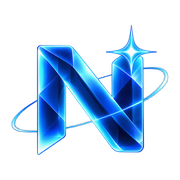
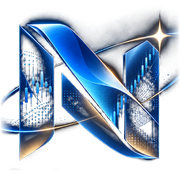
Use the group's new rendered mark
Replace the flat vector N with the mark the owner supplied: a glass N
carrying candlesticks, with an orbit and a spark.

The file came as a dark picture with a broken alpha channel that showed as
grey smoke, so the supplied alpha is ignored: each pixel's opacity is how
far it rises above the navy backdrop, which lifts the mark and its glow
off cleanly. Two cuts are made from it - the whole mark with its orbit for
large placements, and a square on the N for the navbar and icons, where
the orbit would only make the letter smaller. Both fade at the edge
instead of being sliced, and the wordmark under the mark is left out.

The vector logo and its SVG favicon are removed.

diff --git a/about.html b/about.html
@@ -16,7 +16,6 @@
 <meta property="og:image" content="https://mohammad1982salemi.github.io/Nova-group/assets/img/favicon-192.png">
 <meta name="twitter:card" content="summary">
 
-<link rel="icon" type="image/svg+xml" href="assets/img/favicon.svg">
 <link rel="icon" type="image/png" sizes="64x64" href="assets/img/favicon-64.png">
 <link rel="icon" type="image/png" sizes="192x192" href="assets/img/favicon-192.png">
 <link rel="apple-touch-icon" href="assets/img/favicon-192.png">
@@ -26,7 +25,7 @@
 <link rel="preconnect" href="https://fonts.googleapis.com">
 <link rel="preconnect" href="https://fonts.gstatic.com" crossorigin>
 <link rel="stylesheet" href="https://fonts.googleapis.com/css2?family=Space+Grotesk:wght@400;500;600;700&family=Inter:wght@300;400;500;600&display=swap">
-<link rel="stylesheet" href="assets/css/style.css?v=15">
+<link rel="stylesheet" href="assets/css/style.css?v=16">
 
 <!-- Runs before first paint so the page never flashes in the wrong language or direction. -->
 <script>
@@ -46,7 +45,7 @@
 <header class="nav" id="nav">
   <div class="wrap nav-inner">
     <a class="logo" href="index.html" aria-label="Nova Group">
-      <img class="logo-mark" src="assets/img/nova-logo.svg" alt="" width="64" height="64">
+      <img class="logo-mark" src="assets/img/nova-mark-180.png" alt="" width="180" height="180">
       <span class="logo-text t-fa"><b>نوا</b> گروپ</span><span class="logo-text t-en"><b>NOVA</b> GROUP</span>
     </a>
 
@@ -80,7 +79,7 @@
         <span class="t-en">A three-person group that has been studying financial markets and building trading algorithms since 2020.</span>
       </p>
     </div>
-    <img class="page-mark reveal" src="assets/img/nova-logo.svg" alt="" width="64" height="64">
+    <img class="page-mark reveal" src="assets/img/nova-mark.png" alt="" width="560" height="379">
   </div>
 </section>
 
@@ -251,7 +250,7 @@
     <div class="footer-top">
       <div class="footer-brand">
         <a class="logo" href="index.html" aria-label="Nova Group">
-          <img class="logo-mark" src="assets/img/nova-logo.svg" alt="" width="64" height="64" loading="lazy">
+          <img class="logo-mark" src="assets/img/nova-mark-180.png" alt="" width="180" height="180" loading="lazy">
           <span class="logo-text t-fa"><b>نوا</b> گروپ</span><span class="logo-text t-en"><b>NOVA</b> GROUP</span>
         </a>
         <p>
@@ -288,6 +287,6 @@
 
 <button class="to-top" id="toTop" type="button" aria-label="Back to top">↑</button>
 
-<script src="assets/js/main.js?v=15"></script>
+<script src="assets/js/main.js?v=16"></script>
 </body>
 </html>

diff --git a/projects/tsetmc.html b/projects/tsetmc.html
@@ -16,7 +16,6 @@
 <meta property="og:image" content="https://mohammad1982salemi.github.io/Nova-group/assets/img/favicon-192.png">
 <meta name="twitter:card" content="summary">
 
-<link rel="icon" type="image/svg+xml" href="../assets/img/favicon.svg">
 <link rel="icon" type="image/png" sizes="64x64" href="../assets/img/favicon-64.png">
 <link rel="icon" type="image/png" sizes="192x192" href="../assets/img/favicon-192.png">
 <link rel="apple-touch-icon" href="../assets/img/favicon-192.png">
@@ -26,7 +25,7 @@
 <link rel="preconnect" href="https://fonts.googleapis.com">
 <link rel="preconnect" href="https://fonts.gstatic.com" crossorigin>
 <link rel="stylesheet" href="https://fonts.googleapis.com/css2?family=Space+Grotesk:wght@400;500;600;700&family=Inter:wght@300;400;500;600&display=swap">
-<link rel="stylesheet" href="../assets/css/style.css?v=15">
+<link rel="stylesheet" href="../assets/css/style.css?v=16">
 
 <!-- Runs before first paint so the page never flashes in the wrong language or direction. -->
 <script>
@@ -46,7 +45,7 @@
 <header class="nav" id="nav">
   <div class="wrap nav-inner">
     <a class="logo" href="../index.html" aria-label="Nova Group">
-      <img class="logo-mark" src="../assets/img/nova-logo.svg" alt="" width="64" height="64">
+      <img class="logo-mark" src="../assets/img/nova-mark-180.png" alt="" width="180" height="180">
       <span class="logo-text t-fa"><b>نوا</b> گروپ</span><span class="logo-text t-en"><b>NOVA</b> GROUP</span>
     </a>
 
@@ -263,7 +262,7 @@
     <div class="footer-top">
       <div class="footer-brand">
         <a class="logo" href="../index.html" aria-label="Nova Group">
-          <img class="logo-mark" src="../assets/img/nova-logo.svg" alt="" width="64" height="64" loading="lazy">
+          <img class="logo-mark" src="../assets/img/nova-mark-180.png" alt="" width="180" height="180" loading="lazy">
           <span class="logo-text t-fa"><b>نوا</b> گروپ</span><span class="logo-text t-en"><b>NOVA</b> GROUP</span>
         </a>
         <p>
@@ -300,6 +299,6 @@
 
 <button class="to-top" id="toTop" type="button" aria-label="Back to top">↑</button>
 
-<script src="../assets/js/main.js?v=15"></script>
+<script src="../assets/js/main.js?v=16"></script>
 </body>
 </html>

diff --git a/contact.html b/contact.html
@@ -16,7 +16,6 @@
 <meta property="og:image" content="https://mohammad1982salemi.github.io/Nova-group/assets/img/favicon-192.png">
 <meta name="twitter:card" content="summary">
 
-<link rel="icon" type="image/svg+xml" href="assets/img/favicon.svg">
 <link rel="icon" type="image/png" sizes="64x64" href="assets/img/favicon-64.png">
 <link rel="icon" type="image/png" sizes="192x192" href="assets/img/favicon-192.png">
 <link rel="apple-touch-icon" href="assets/img/favicon-192.png">
@@ -26,7 +25,7 @@
 <link rel="preconnect" href="https://fonts.googleapis.com">
 <link rel="preconnect" href="https://fonts.gstatic.com" crossorigin>
 <link rel="stylesheet" href="https://fonts.googleapis.com/css2?family=Space+Grotesk:wght@400;500;600;700&family=Inter:wght@300;400;500;600&display=swap">
-<link rel="stylesheet" href="assets/css/style.css?v=15">
+<link rel="stylesheet" href="assets/css/style.css?v=16">
 
 <!-- Runs before first paint so the page never flashes in the wrong language or direction. -->
 <script>
@@ -46,7 +45,7 @@
 <header class="nav" id="nav">
   <div class="wrap nav-inner">
     <a class="logo" href="index.html" aria-label="Nova Group">
-      <img class="logo-mark" src="assets/img/nova-logo.svg" alt="" width="64" height="64">
+      <img class="logo-mark" src="assets/img/nova-mark-180.png" alt="" width="180" height="180">
       <span class="logo-text t-fa"><b>نوا</b> گروپ</span><span class="logo-text t-en"><b>NOVA</b> GROUP</span>
     </a>
 
@@ -110,7 +109,7 @@
     <div class="footer-top">
       <div class="footer-brand">
         <a class="logo" href="index.html" aria-label="Nova Group">
-          <img class="logo-mark" src="assets/img/nova-logo.svg" alt="" width="64" height="64" loading="lazy">
+          <img class="logo-mark" src="assets/img/nova-mark-180.png" alt="" width="180" height="180" loading="lazy">
           <span class="logo-text t-fa"><b>نوا</b> گروپ</span><span class="logo-text t-en"><b>NOVA</b> GROUP</span>
         </a>
         <p>
@@ -147,6 +146,6 @@
 
 <button class="to-top" id="toTop" type="button" aria-label="Back to top">↑</button>
 
-<script src="assets/js/main.js?v=15"></script>
+<script src="assets/js/main.js?v=16"></script>
 </body>
 </html>

diff --git a/index.html b/index.html
@@ -16,7 +16,6 @@
 <meta property="og:image" content="https://mohammad1982salemi.github.io/Nova-group/assets/img/favicon-192.png">
 <meta name="twitter:card" content="summary">
 
-<link rel="icon" type="image/svg+xml" href="assets/img/favicon.svg">
 <link rel="icon" type="image/png" sizes="64x64" href="assets/img/favicon-64.png">
 <link rel="icon" type="image/png" sizes="192x192" href="assets/img/favicon-192.png">
 <link rel="apple-touch-icon" href="assets/img/favicon-192.png">
@@ -26,7 +25,7 @@
 <link rel="preconnect" href="https://fonts.googleapis.com">
 <link rel="preconnect" href="https://fonts.gstatic.com" crossorigin>
 <link rel="stylesheet" href="https://fonts.googleapis.com/css2?family=Space+Grotesk:wght@400;500;600;700&family=Inter:wght@300;400;500;600&display=swap">
-<link rel="stylesheet" href="assets/css/style.css?v=15">
+<link rel="stylesheet" href="assets/css/style.css?v=16">
 
 <!-- Runs before first paint so the page never flashes in the wrong language or direction. -->
 <script>
@@ -46,7 +45,7 @@
 <header class="nav" id="nav">
   <div class="wrap nav-inner">
     <a class="logo" href="index.html" aria-label="Nova Group">
-      <img class="logo-mark" src="assets/img/nova-logo.svg" alt="" width="64" height="64">
+      <img class="logo-mark" src="assets/img/nova-mark-180.png" alt="" width="180" height="180">
       <span class="logo-text t-fa"><b>نوا</b> گروپ</span><span class="logo-text t-en"><b>NOVA</b> GROUP</span>
     </a>
 
@@ -340,7 +339,7 @@
     <div class="footer-top">
       <div class="footer-brand">
         <a class="logo" href="index.html" aria-label="Nova Group">
-          <img class="logo-mark" src="assets/img/nova-logo.svg" alt="" width="64" height="64" loading="lazy">
+          <img class="logo-mark" src="assets/img/nova-mark-180.png" alt="" width="180" height="180" loading="lazy">
           <span class="logo-text t-fa"><b>نوا</b> گروپ</span><span class="logo-text t-en"><b>NOVA</b> GROUP</span>
         </a>
         <p>
@@ -377,6 +376,6 @@
 
 <button class="to-top" id="toTop" type="button" aria-label="Back to top">↑</button>
 
-<script src="assets/js/main.js?v=15"></script>
+<script src="assets/js/main.js?v=16"></script>
 </body>
 </html>

diff --git a/projects.html b/projects.html
@@ -16,7 +16,6 @@
 <meta property="og:image" content="https://mohammad1982salemi.github.io/Nova-group/assets/img/favicon-192.png">
 <meta name="twitter:card" content="summary">
 
-<link rel="icon" type="image/svg+xml" href="assets/img/favicon.svg">
 <link rel="icon" type="image/png" sizes="64x64" href="assets/img/favicon-64.png">
 <link rel="icon" type="image/png" sizes="192x192" href="assets/img/favicon-192.png">
 <link rel="apple-touch-icon" href="assets/img/favicon-192.png">
@@ -26,7 +25,7 @@
 <link rel="preconnect" href="https://fonts.googleapis.com">
 <link rel="preconnect" href="https://fonts.gstatic.com" crossorigin>
 <link rel="stylesheet" href="https://fonts.googleapis.com/css2?family=Space+Grotesk:wght@400;500;600;700&family=Inter:wght@300;400;500;600&display=swap">
-<link rel="stylesheet" href="assets/css/style.css?v=15">
+<link rel="stylesheet" href="assets/css/style.css?v=16">
 
 <!-- Runs before first paint so the page never flashes in the wrong language or direction. -->
 <script>
@@ -46,7 +45,7 @@
 <header class="nav" id="nav">
   <div class="wrap nav-inner">
     <a class="logo" href="index.html" aria-label="Nova Group">
-      <img class="logo-mark" src="assets/img/nova-logo.svg" alt="" width="64" height="64">
+      <img class="logo-mark" src="assets/img/nova-mark-180.png" alt="" width="180" height="180">
       <span class="logo-text t-fa"><b>نوا</b> گروپ</span><span class="logo-text t-en"><b>NOVA</b> GROUP</span>
     </a>
 
@@ -126,7 +125,7 @@
     <div class="footer-top">
       <div class="footer-brand">
         <a class="logo" href="index.html" aria-label="Nova Group">
-          <img class="logo-mark" src="assets/img/nova-logo.svg" alt="" width="64" height="64" loading="lazy">
+          <img class="logo-mark" src="assets/img/nova-mark-180.png" alt="" width="180" height="180" loading="lazy">
           <span class="logo-text t-fa"><b>نوا</b> گروپ</span><span class="logo-text t-en"><b>NOVA</b> GROUP</span>
         </a>
         <p>
@@ -163,6 +162,6 @@
 
 <button class="to-top" id="toTop" type="button" aria-label="Back to top">↑</button>
 
-<script src="assets/js/main.js?v=15"></script>
+<script src="assets/js/main.js?v=16"></script>
 </body>
 </html>

diff --git a/assets/css/style.css b/assets/css/style.css
@@ -161,7 +161,8 @@ html[data-lang="fa"] .tags li { font-family: var(--font-fa); }
 .nav-inner { display: flex; align-items: center; gap: 28px; }
 
 .logo { display: inline-flex; align-items: center; gap: 12px; }
-.logo-mark { width: 40px; height: 40px; filter: drop-shadow(0 0 12px rgba(59,130,246,.55)); }
+/* the artwork carries its own glow - no drop-shadow on top of it */
+.logo-mark { width: 48px; height: 48px; }
 /* two weights: the name in white, "group" stepped back */
 .logo-text { font-weight: 400; color: #9fb1c9; }
 .logo-text b { font-weight: 700; color: #fff; }
@@ -556,7 +557,7 @@ html[dir="rtl"] .pipe > span + span::before { content: '←'; }
 .page-hero h1 { font-size: clamp(2.1rem, 4.8vw, 3.4rem); margin-block-end: 20px; }
 .page-lead { color: var(--muted); font-size: 18.2px; max-width: 66ch; }
 .page-hero-grid { display: flex; align-items: center; justify-content: space-between; gap: 48px; }
-.page-mark { flex: none; width: 190px; height: 190px; }
+.page-mark { flex: none; width: 300px; height: auto; }
 .page-hero .facts { margin-block-start: 52px; border-block-end: 0; }
 .page-hero:has(.facts) { padding-block-end: 0; }
 
@@ -698,7 +699,7 @@ html.js .reveal.is-in { opacity: 1; transform: none; }
   .burger { display: flex; }
   .nav-inner { gap: 14px; }
   .nav-actions { margin-inline-start: auto; }
-  .logo-mark { width: 36px; height: 36px; }
+  .logo-mark { width: 42px; height: 42px; }
   .nav-links {
     position: fixed; inset-block-start: var(--nav-h); inset-inline: 0;
     flex-direction: column; gap: 2px; margin: 0; padding: 12px 20px 20px;
@@ -716,7 +717,7 @@ html.js .reveal.is-in { opacity: 1; transform: none; }
   .section { padding-block: 66px; }
   .page-hero { padding-block: calc(var(--nav-h) + 48px) 48px; }
   .page-lead { font-size: 16.6px; }
-  .page-mark { width: 104px; height: 104px; }
+  .page-mark { width: 150px; }
   .page-hero-grid { gap: 20px; }
 
   .layers, .tracks, .team { grid-template-columns: 1fr; }

diff --git a/src/partials/footer.html b/src/partials/footer.html
@@ -3,7 +3,7 @@
     <div class="footer-top">
       <div class="footer-brand">
         <a class="logo" href="@@R@@index.html" aria-label="Nova Group">
-          <img class="logo-mark" src="@@R@@assets/img/nova-logo.svg" alt="" width="64" height="64" loading="lazy">
+          <img class="logo-mark" src="@@R@@assets/img/nova-mark-180.png" alt="" width="180" height="180" loading="lazy">
           <span class="logo-text t-fa"><b>نوا</b> گروپ</span><span class="logo-text t-en"><b>NOVA</b> GROUP</span>
         </a>
         <p>

diff --git a/src/partials/head.html b/src/partials/head.html
@@ -5,7 +5,6 @@
 <meta property="og:image" content="https://mohammad1982salemi.github.io/Nova-group/assets/img/favicon-192.png">
 <meta name="twitter:card" content="summary">
 
-<link rel="icon" type="image/svg+xml" href="@@R@@assets/img/favicon.svg">
 <link rel="icon" type="image/png" sizes="64x64" href="@@R@@assets/img/favicon-64.png">
 <link rel="icon" type="image/png" sizes="192x192" href="@@R@@assets/img/favicon-192.png">
 <link rel="apple-touch-icon" href="@@R@@assets/img/favicon-192.png">

diff --git a/src/partials/nav.html b/src/partials/nav.html
@@ -3,7 +3,7 @@
 <header class="nav" id="nav">
   <div class="wrap nav-inner">
     <a class="logo" href="@@R@@index.html" aria-label="Nova Group">
-      <img class="logo-mark" src="@@R@@assets/img/nova-logo.svg" alt="" width="64" height="64">
+      <img class="logo-mark" src="@@R@@assets/img/nova-mark-180.png" alt="" width="180" height="180">
       <span class="logo-text t-fa"><b>نوا</b> گروپ</span><span class="logo-text t-en"><b>NOVA</b> GROUP</span>
     </a>
 

diff --git a/src/pages/about.html b/src/pages/about.html
@@ -28,7 +28,7 @@
         <span class="t-en">A three-person group that has been studying financial markets and building trading algorithms since 2020.</span>
       </p>
     </div>
-    <img class="page-mark reveal" src="assets/img/nova-logo.svg" alt="" width="64" height="64">
+    <img class="page-mark reveal" src="assets/img/nova-mark.png" alt="" width="560" height="379">
   </div>
 </section>
 

diff --git a/build.py b/build.py
@@ -12,7 +12,7 @@ Tokens a page (or a partial) may use:
 import re
 from pathlib import Path
 
-VERSION = "15"  # bump whenever assets/css/style.css or assets/js/main.js changes
+VERSION = "16"  # bump whenever assets/css/style.css or assets/js/main.js changes
 
 ROOT = Path(__file__).parent
 PAGES = ROOT / "src" / "pages"
